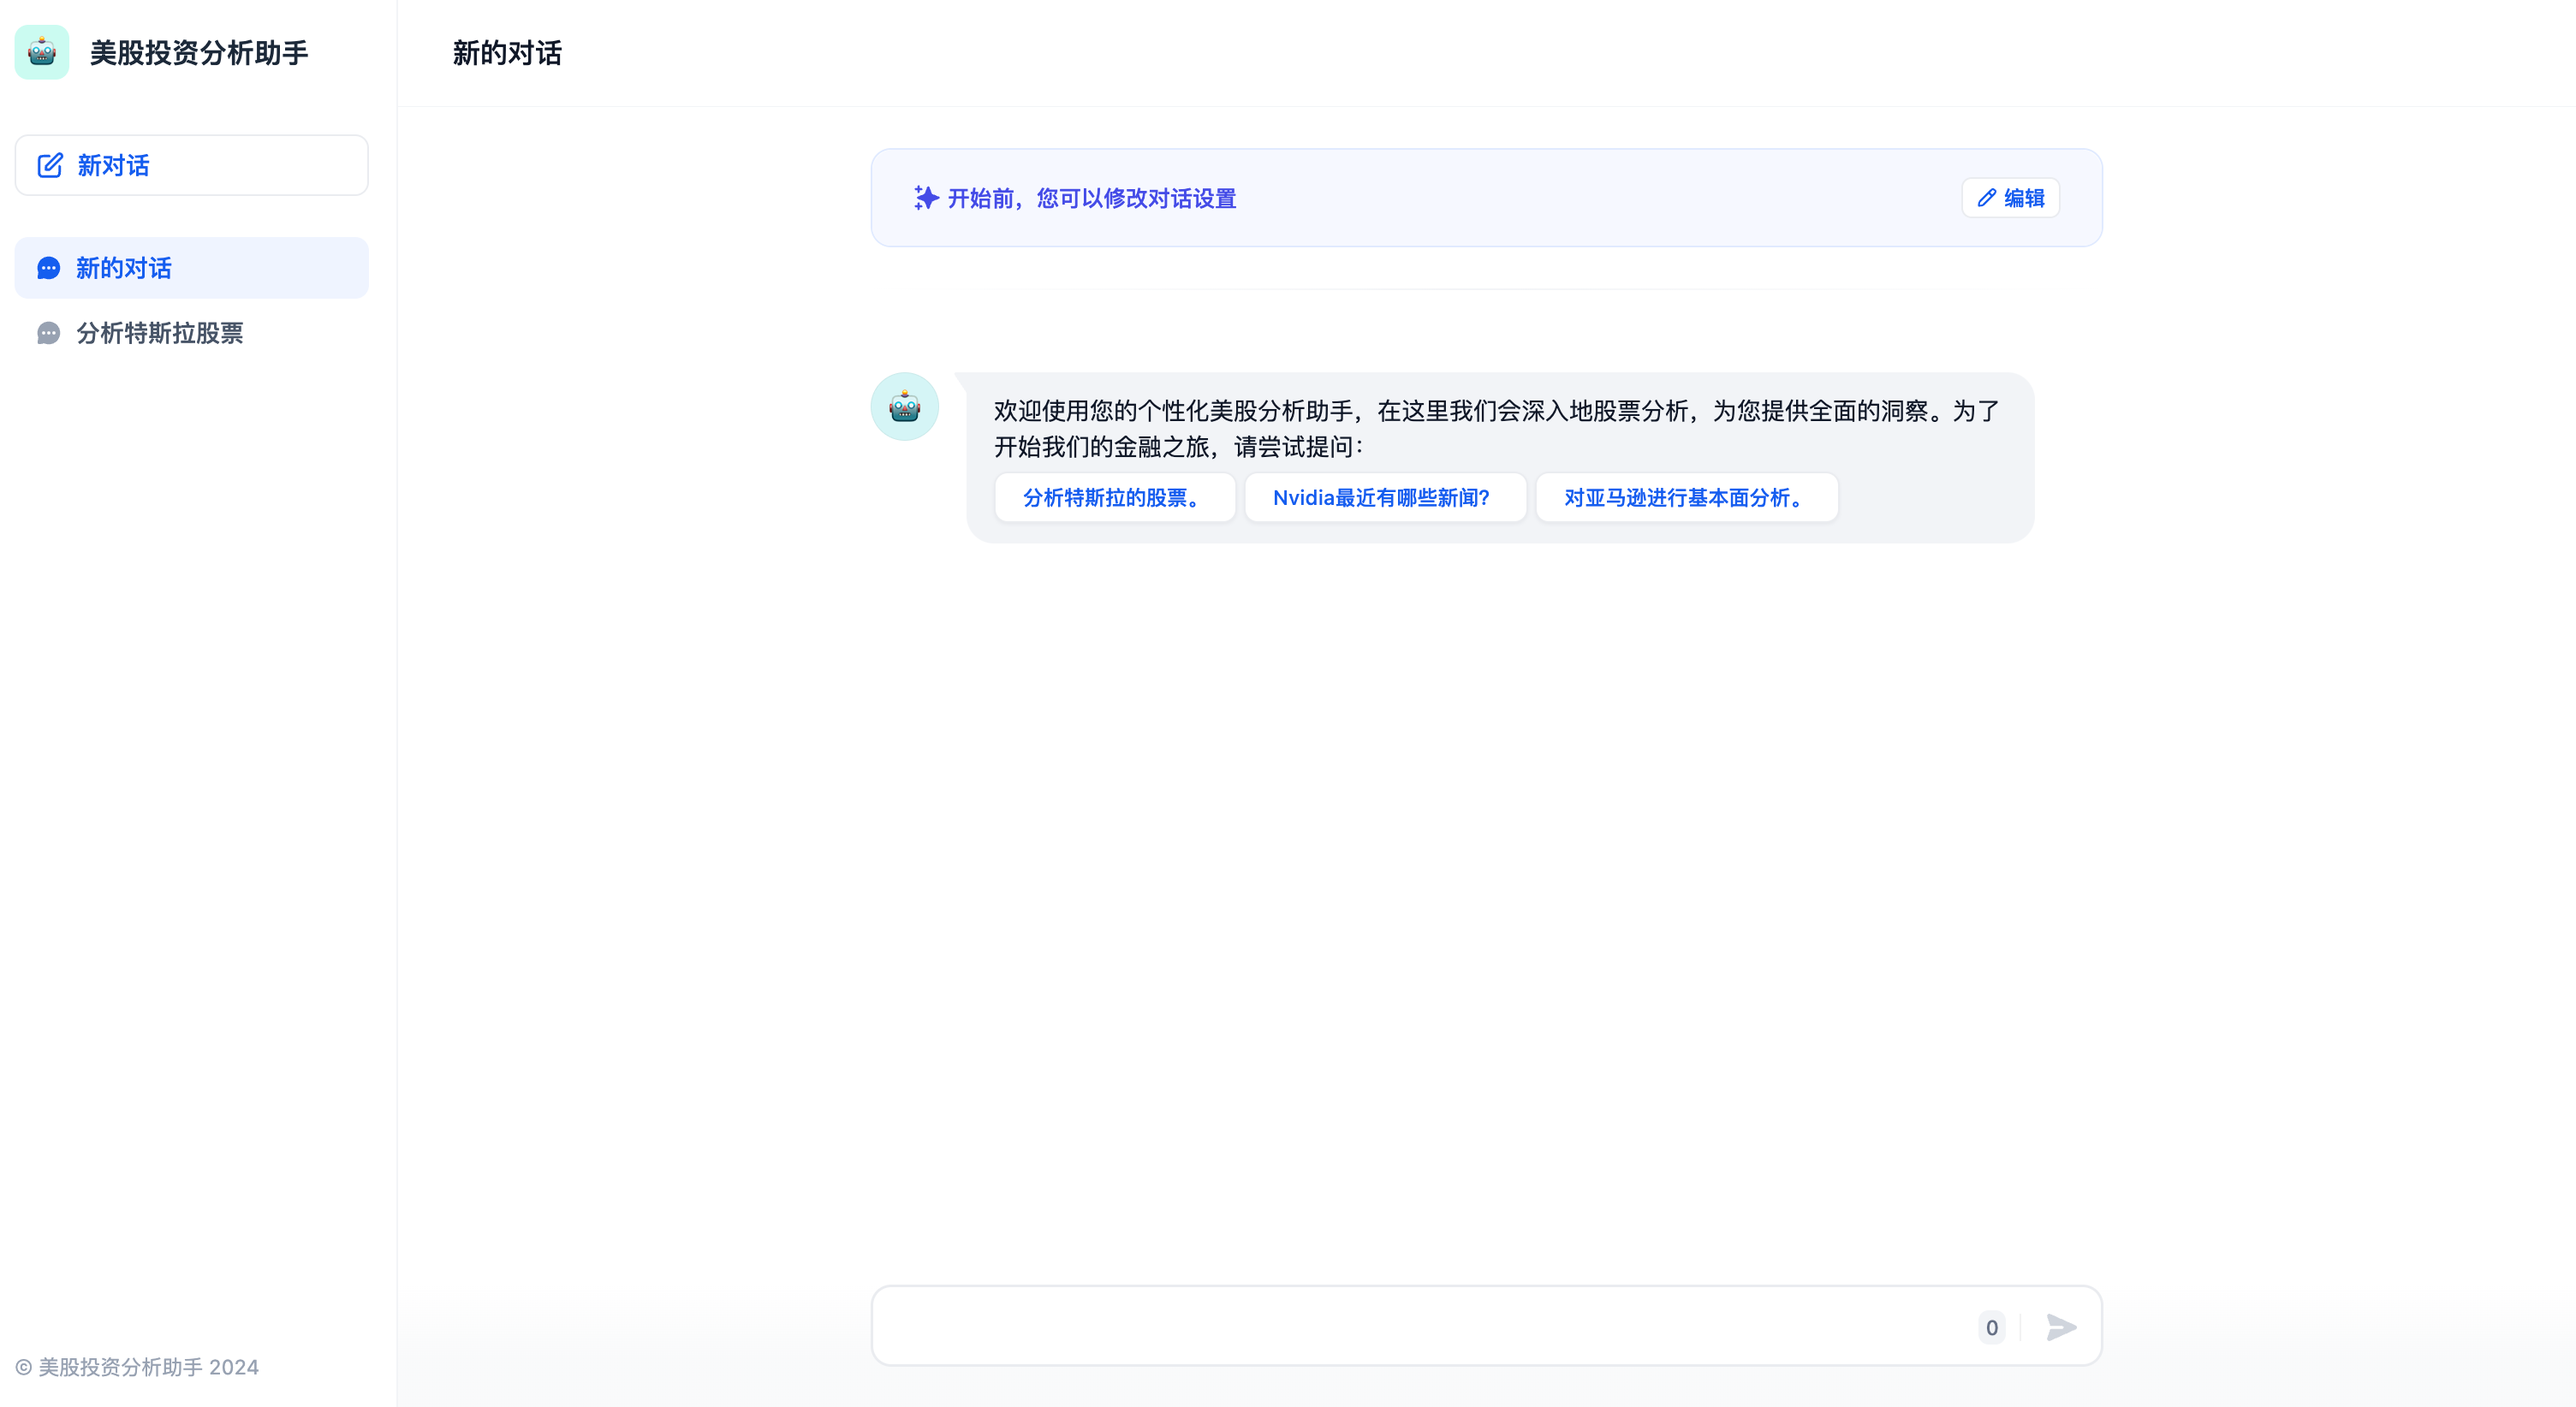
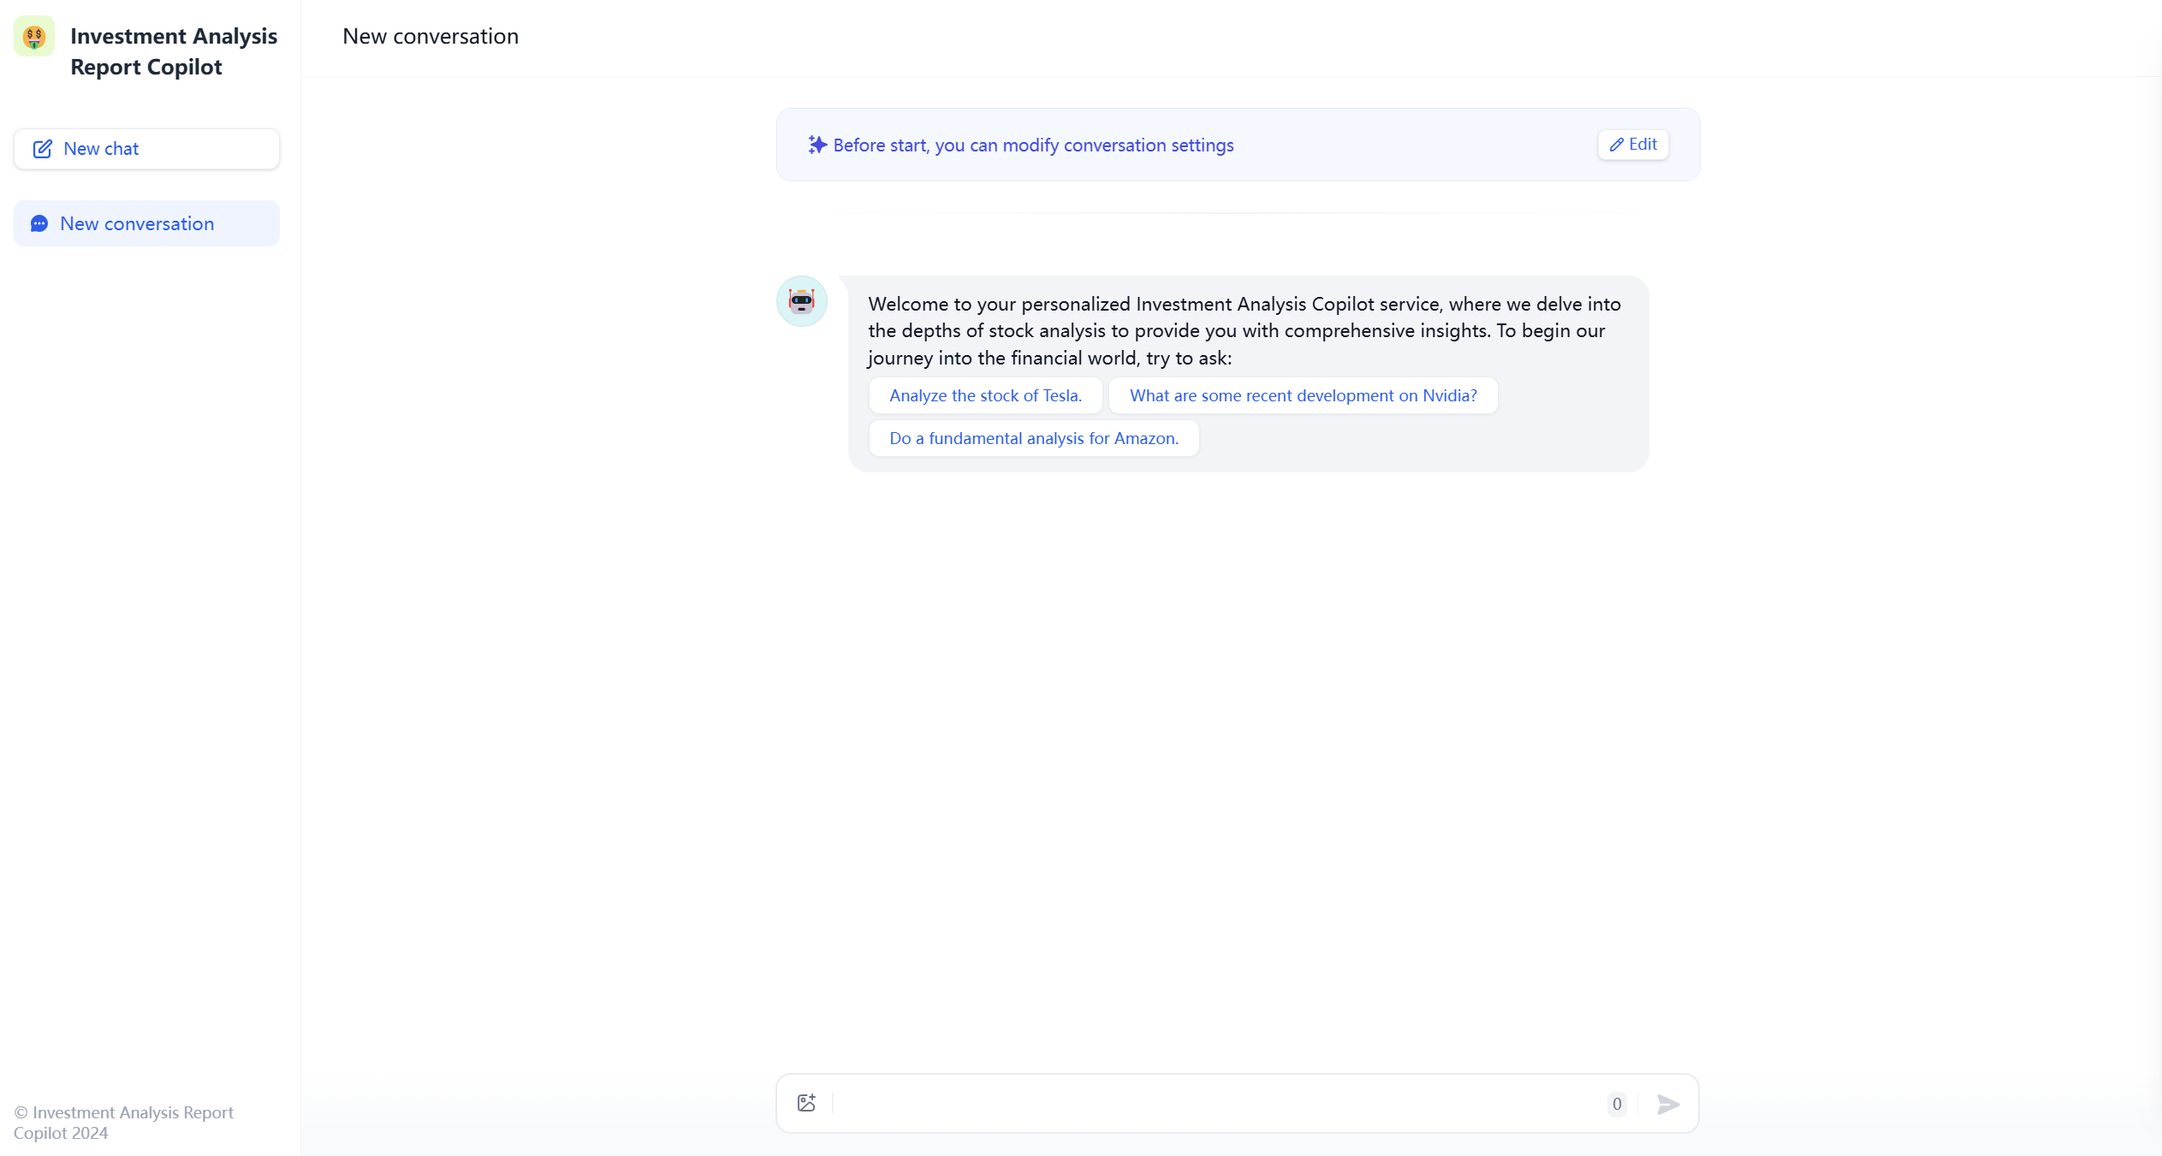
Fix image language

diff --git a/en/guides/application-orchestrate/app-toolkits/README.md b/en/guides/application-orchestrate/app-toolkits/README.md
@@ -4,7 +4,7 @@ In **Studio -- Application Orchestration**, click **Add Feature** to open the ap
 
 The application toolbox provides various additional features for Dify's [applications](../#application_type):
 <!-- TODO CN IMG -->
-<figure><img src="/en/.gitbook/assets/guides/application_orchestrate/app_toolkits/image (237).png" alt=""><figcaption></figcaption></figure>
+<figure><img src="/en/.gitbook/assets/guides/application_orchestrate/app_toolkits/content_moderation.png" alt=""><figcaption></figcaption></figure>
 
 ### Conversation Opening
 
@@ -17,18 +17,6 @@ In conversational applications, the AI will proactively say the first sentence o
 Setting next step question suggestions allows the AI to generate 3 follow-up questions based on the previous conversation, guiding the next round of interaction.
 
 <figure><img src="/en/.gitbook/assets/guides/application_orchestrate/app_toolkits/image (241).png" alt=""><figcaption></figcaption></figure>
-
-### Text-to-Speech
-
-When enabled, this feature converts the AI's responses into natural-sounding speech.
-
-<figure><img src="/en/.gitbook/assets/guides/application_orchestrate/app_toolkits/image (242).png" alt=""><figcaption></figcaption></figure>
-
-### Speech-to-Text
-
-When enabled, you can record audio within the application and automatically convert the speech into text.
-
-<figure><img src="/en/.gitbook/assets/guides/application_orchestrate/app_toolkits/image (243).png" alt=""><figcaption></figcaption></figure>
 
 ### Citation and Attribution
 

diff --git a/en/guides/application-orchestrate/conversation-application.md b/en/guides/application-orchestrate/conversation-application.md
@@ -34,7 +34,7 @@ The prompt we are filling in here is:
 >
 > When I am ready, you can start asking questions.
 
-![](</en/.gitbook/assets/guides/application_orchestrate/conversation-application/image (38).png>)
+<!-- ![](</en/.gitbook/assets/guides/application_orchestrate/conversation-application/image (38).png>) TODO -->
 
 For a better experience, we will add an opening dialogue: `"Hello, {{name}}. I'm your interviewer, Bob. Are you ready?"`
 
